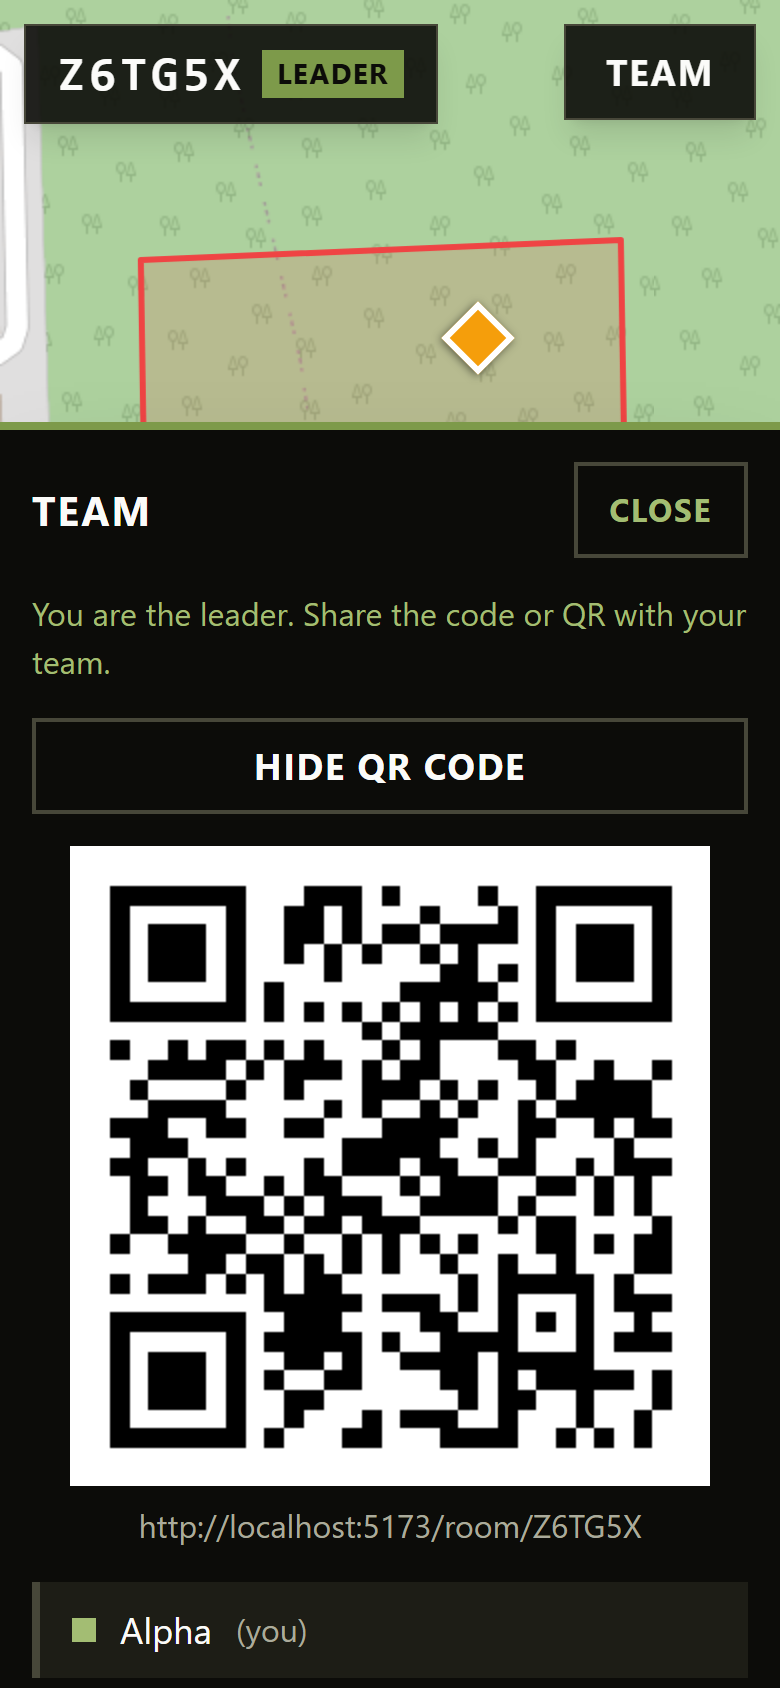
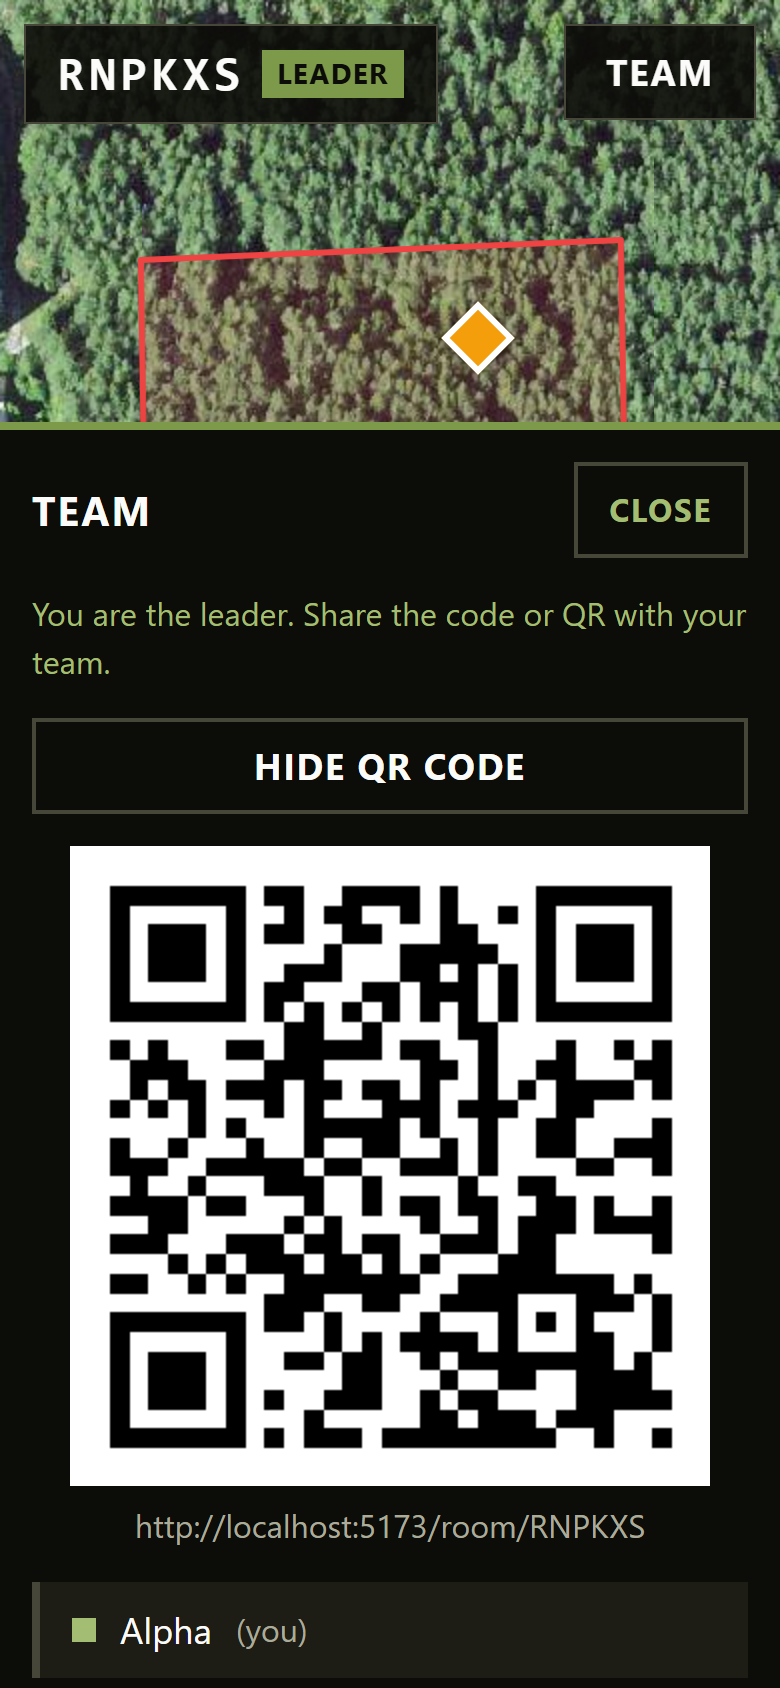
Retake README screenshots on the Land Board orthophoto

Changed region(s): [[0.0, 0.0, 1.0, 0.2773], [0.1231, 0.5237, 0.8615, 0.8626], [0.1538, 0.8934, 0.8308, 0.9242]]

diff --git a/README.md b/README.md
@@ -5,7 +5,7 @@ Real-time tactical map for airsoft teams. The leader creates a room, players joi
 SvelteKit, Leaflet, Node.js, Express, Socket.IO, MongoDB, Zod, Docker, nginx.
 
 <p align="center">
-  <img src="docs/screenshots/room-map.png" alt="Leader's map: live member positions, a zone, an arrow and a marker" width="300">
+  <img src="docs/screenshots/room-map.png" alt="Leader's map on the Land Board orthophoto: live member positions, a zone, an arrow and a marker" width="300">
   &nbsp;&nbsp;
   <img src="docs/screenshots/team-sheet.png" alt="Team sheet with the join QR code and member list" width="300">
 </p>
@@ -26,7 +26,7 @@ This app is a web page: the leader creates a room, everyone scans a QR code, typ
 - **Templates.** Outline the game zone and points of interest at home, save the template, load it into a room on game day.
 - **Persistence.** Rooms and templates live in MongoDB. Anyone who (re)joins gets the current snapshot.
 - **Built for the field.** Full-screen map, every touch target at least 48 px (checked by an automated test), drawing tools and zoom in thumb reach at the bottom, bold name labels for sunlight, the screen kept on while in a room (a locked phone would stop sharing GPS), a visible "Offline" state with automatic reconnect, clear banners for denied or missing GPS.
-- **Map layers.** OpenStreetMap by default, plus Estonian Land Board (Maa- ja Ruumiamet) orthophotos, topographic map and a labels overlay for games in Estonia. The last choice is remembered on the device. See [Map layers](#map-layers).
+- **Map layers.** Estonian Land Board (Maa- ja Ruumiamet) orthophotos by default, plus its topographic map, a labels overlay, and OpenStreetMap ("World Simple") for games outside Estonia. Picked from a bottom sheet; the last choice is remembered on the device. See [Map layers](#map-layers).
 - **HTTPS deployment.** Docker Compose behind nginx with HTTPS, which browsers require for GPS.
 
 ## Architecture
@@ -65,18 +65,19 @@ flowchart LR
 
 ### Map layers
 
-The layer switcher (bottom right, above zoom) offers:
+The layers button (bottom right, above zoom) opens a bottom sheet; a tap anywhere outside it closes it. The options:
 
 | Layer | Source | Coverage |
 |---|---|---|
-| Map | OpenStreetMap | world |
-| Photo (EE) | Maa- ja Ruumiamet orthophoto | Estonia, about zoom 8-18 |
+| Photo (EE) (default) | Maa- ja Ruumiamet orthophoto | Estonia, about zoom 8-18 |
 | Topo (EE) | Maa- ja Ruumiamet base map | Estonia |
+| World Simple | OpenStreetMap | world |
 | Labels (EE) | Maa- ja Ruumiamet hybrid overlay (roads, names) | Estonia, on top of any base layer |
 
 - **No API key.** The Land Board tiles are open data, so nothing goes into `.env` and nothing secret reaches the browser. The open data licence requires naming the source and the data's age, which the attribution line does ("Estonian Land Board <year>").
 - **Web Mercator, not L-EST97.** The Land Board's native projection is L-EST97 (EPSG:3301). Using it directly would need Proj4Leaflet, so the app uses the Land Board's Web Mercator (`@GMC`) tile set, which works with Leaflet as is. The trade-off is a little resampling and the Mercator scale distortion, which is negligible at field zoom levels.
 - **Zoom past the tiles.** The tiles stop at zoom 18 (OSM at 19). The map goes to 20 and upscales the last real tiles instead of showing grey.
+- **Outside Estonia** the default photo layer is empty (grey), and so is the zoomed-out world view before the GPS fix. Pick World Simple there.
 - Orthophoto tiles are heavier than OSM tiles, which matters on mobile data.
 
 ### Code organization: monorepo with vertical slices
